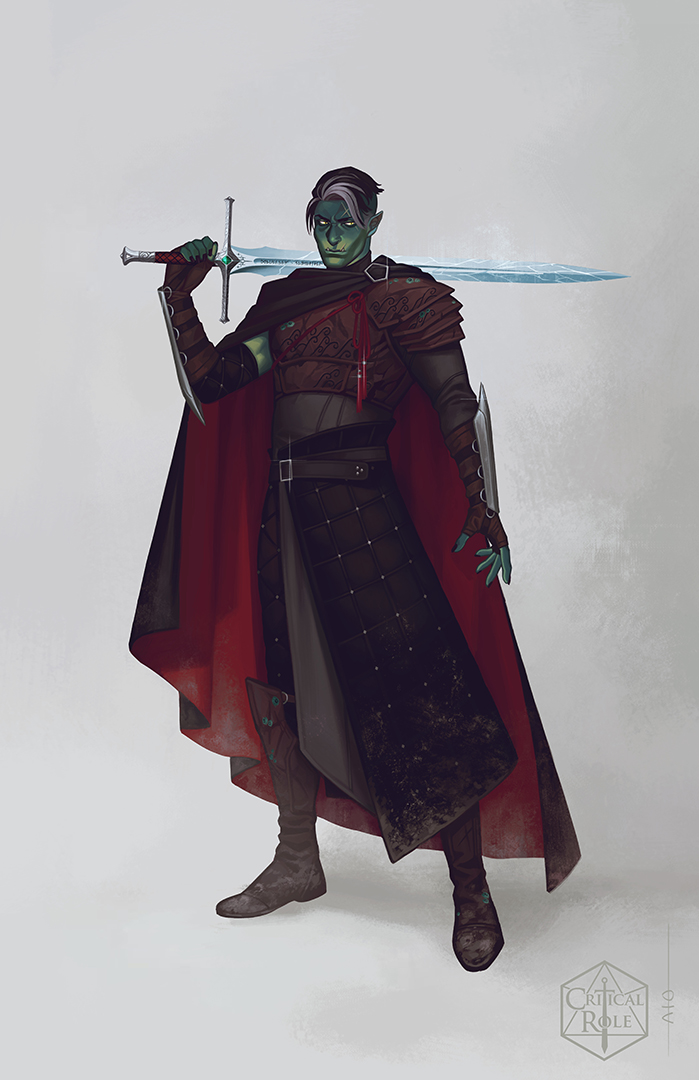
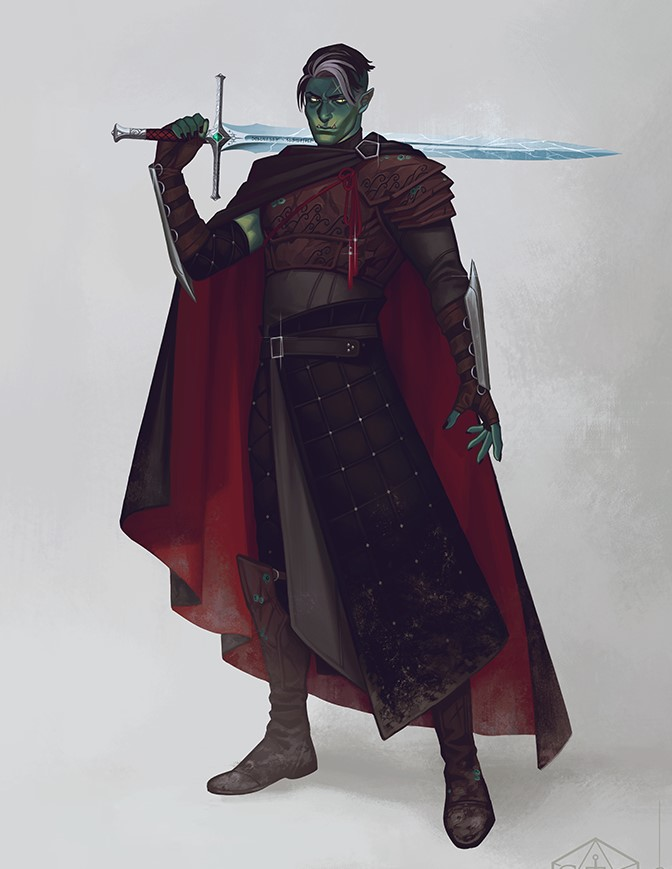
small image changes

Changed region(s): [[0.1562, 0.0311, 1.0, 1.0], [0.6875, 0.6214, 0.7188, 0.6525]]

diff --git a/races.html b/races.html
@@ -1020,7 +1020,7 @@
                                 <div class="tab-pane active" id="tieflingMain" role="tabpanel">
                                     <div class="row">
                                         <div class="col">
-                                            <img src="img/DND-Tiefling-Race.jpg" class="card-img mx-auto d-block"
+                                            <img src="img/Mollymauk_Official_byArianaOrner.png" class="card-img mx-auto d-block"
                                                 style="width: 160px; height: 14rem;" alt="Tiefling Class">
                                         </div>
                                         <p class="card-text scroll pl-5" style="width: fit-content;">
